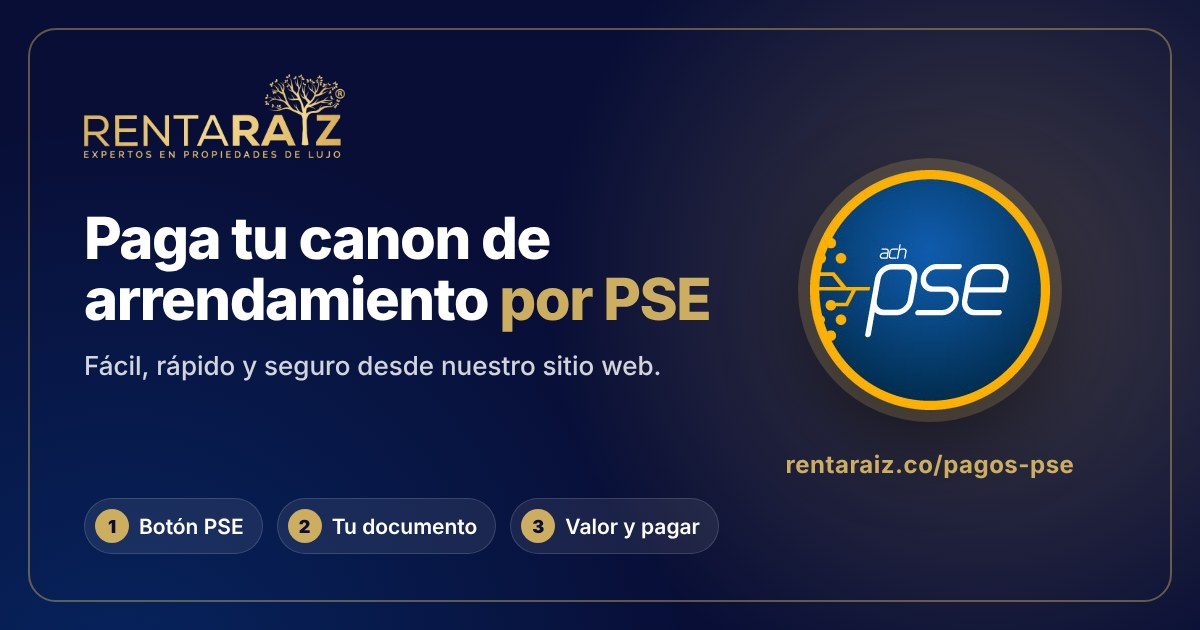
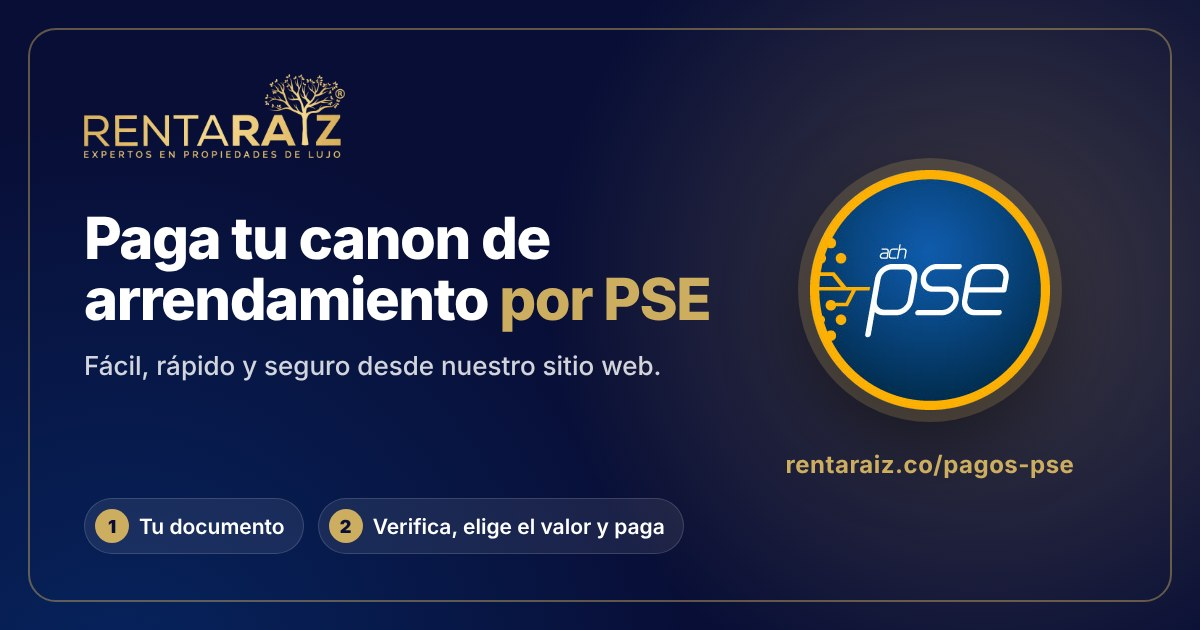
fix: /pagos-pse solo con los pasos de la pasarela (documento y pago)
Se quitan "Ingresa a rentaraiz.co" y "Selecciona el botón azul PSE"; quedan
"Ingresa tu documento de identificación" y "Verifica y paga". Se ajustan el
subtítulo, la descripción para buscadores y los pasos de og-pse.jpg.

Claude-Session: https://claude.ai/code/session_01X2JpvmDKD3vKBLDHsbguG4

Changed region(s): [[0.0925, 0.7841, 0.5858, 0.8746]]

diff --git a/src/app/Pages/Inicio/Components/pagos-pse/pagos-pse.component.html b/src/app/Pages/Inicio/Components/pagos-pse/pagos-pse.component.html
@@ -9,7 +9,7 @@
         <h1 class="mt-2 text-3xl font-bold leading-tight sm:text-5xl">
           ¿Cómo pagar el <span class="text-[#CDAD60]">canon de arrendamiento</span>?
         </h1>
-        <p class="mt-4 max-w-xl text-lg text-white/80">Paga por PSE desde nuestro sitio web en cuatro pasos. Es fácil y rápido.</p>
+        <p class="mt-4 max-w-xl text-lg text-white/80">Paga por PSE desde nuestro sitio web. Es fácil y rápido.</p>
         <a [href]="pasarela" target="_blank" rel="noopener"
           class="mt-8 inline-flex items-center gap-3 rounded-full bg-[#CDAD60] py-2 pl-2 pr-6 text-lg font-semibold text-[#080E36] shadow-lg transition-colors hover:bg-white">
           <img src="assets/images/pse-logo.webp" alt="" width="44" height="44" class="h-11 w-11 flex-none" />

diff --git a/src/app/Pages/Inicio/Components/pagos-pse/pagos-pse.component.ts b/src/app/Pages/Inicio/Components/pagos-pse/pagos-pse.component.ts
@@ -22,8 +22,6 @@ export class PagosPseComponent {
   )}`;
 
   readonly pasos = [
-    { titulo: 'Ingresa a rentaraiz.co', texto: 'Ya estás aquí. También lo encuentras en cualquier página del sitio.' },
-    { titulo: 'Selecciona el botón azul PSE', texto: 'Está arriba a la derecha en el menú; en el celular, abajo a la izquierda. O usa el botón de esta página.' },
     { titulo: 'Ingresa tu documento de identificación', texto: '' },
     { titulo: 'Verifica y paga', texto: 'Revisa que la información sea correcta, selecciona el valor a pagar y haz clic en Pagar.' },
   ];

diff --git a/src/app/Pages/Inicio/inicio.routes.ts b/src/app/Pages/Inicio/inicio.routes.ts
@@ -59,7 +59,7 @@ export const routes: Routes = [
           seo: {
             titulo: 'Paga tu canon de arrendamiento por PSE | Renta Raíz',
             descripcion:
-              'Paga el canon de arrendamiento por PSE desde rentaraiz.co en cuatro pasos: botón PSE, tu documento, el valor y listo. Fácil y rápido.',
+              'Paga el canon de arrendamiento por PSE desde rentaraiz.co: ingresa tu documento, verifica la información, selecciona el valor y paga. Fácil y rápido.',
             imagen: `${SEO_DOMINIO}/assets/images/og-pse.jpg`,
           },
         },
